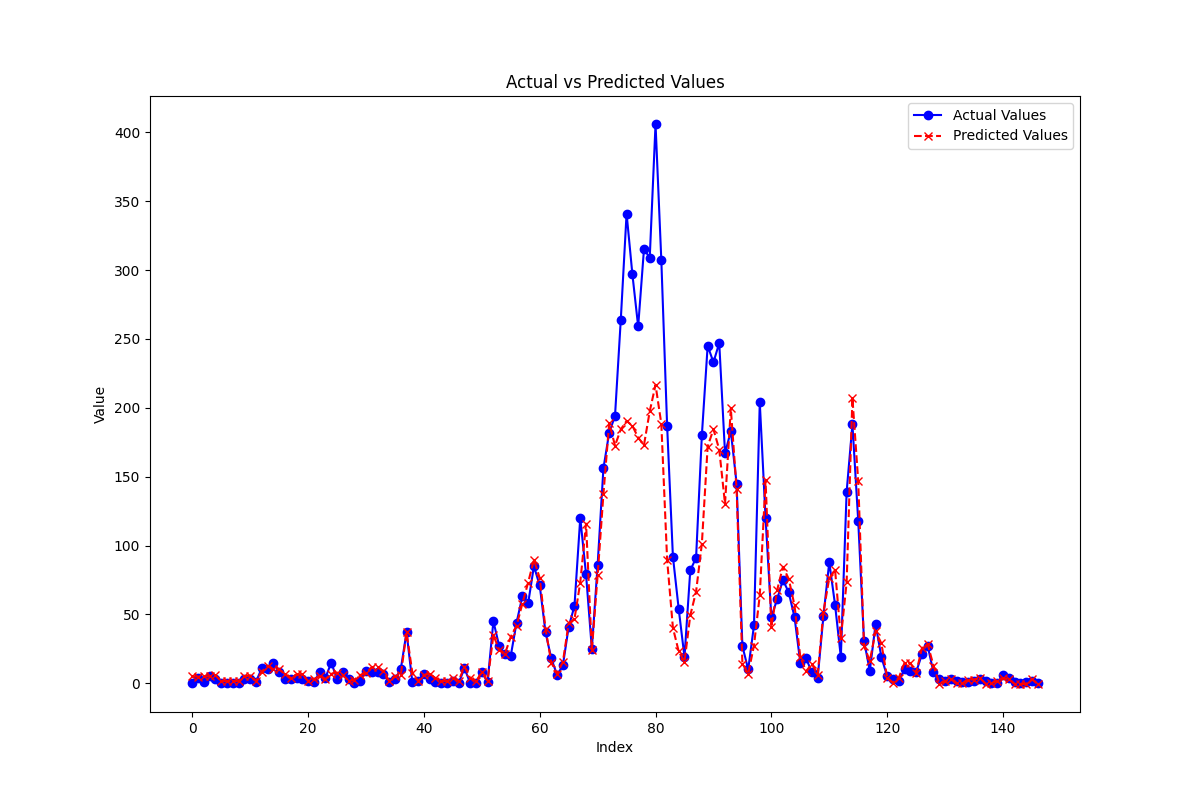
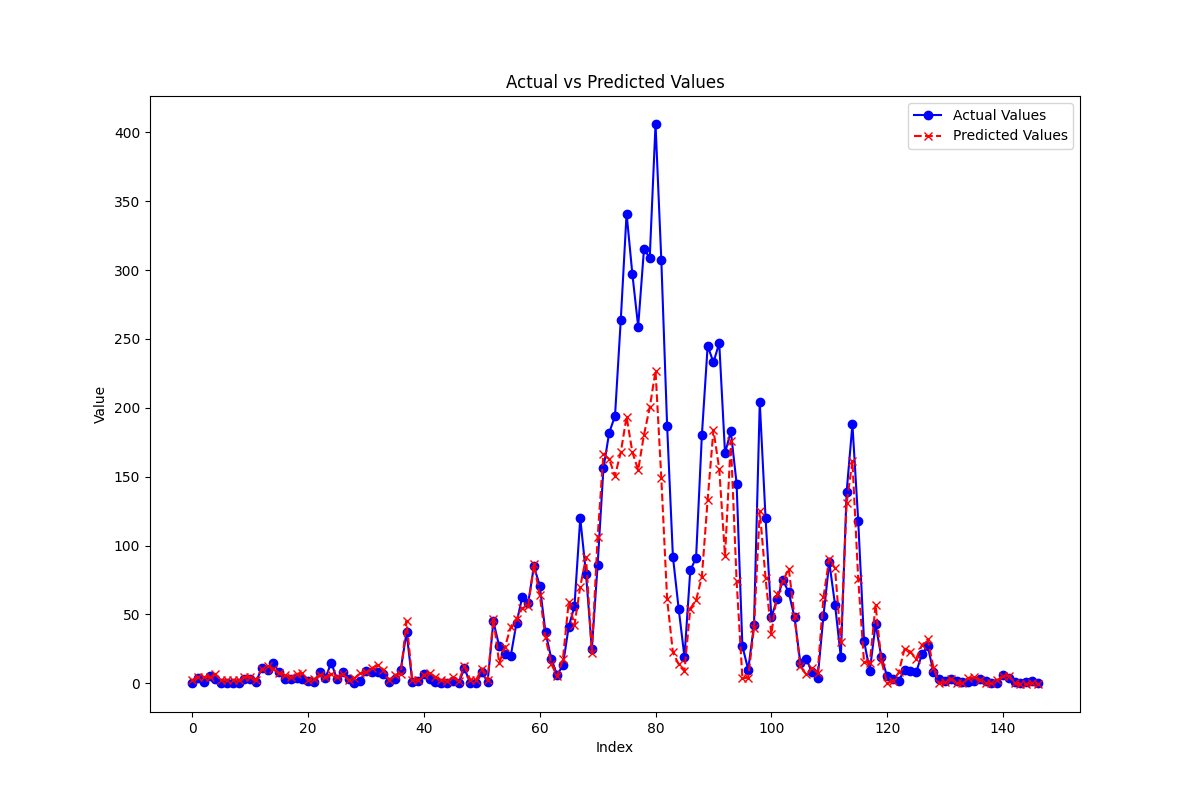
d

diff --git a/Project_01_GradientBooting.py b/Project_01_GradientBooting.py
@@ -44,12 +44,12 @@ process_datetime(test_df)
 # 5. 데이터 전처리
 # 훈련 데이터에서 필요한 열 선택
 X_train = train_df[['Year', 'Month', 'Day', 'Hour', '3최고기온', '4평균기온', '9평균습도(%)',
-                    '10강수량합계(mm)', '18최고-최저 기온차', '19체감온도', '20불쾌지수', '39전일의 이송 인원수']]
+                    '10강수량합계(mm)', '18최고-최저 기온차', '19체감온도', '20불쾌지수']]
 y_train = train_df['2이송 인원']
 
 # 테스트 데이터에서 필요한 열 선택
 X_test = test_df[['Year', 'Month', 'Day', 'Hour', '3최고기온', '4평균기온', '9평균습도(%)',
-                  '10강수량합계(mm)', '18최고-최저 기온차', '19체감온도', '20불쾌지수', '39전일의 이송 인원수']]
+                  '10강수량합계(mm)', '18최고-최저 기온차', '19체감온도', '20불쾌지수']]
 y_test = test_df['2이송 인원']
 
 # 스케일링 (옵션, 선택적으로 적용할 수 있음)
@@ -58,6 +58,7 @@ X_train = scaler.fit_transform(X_train)
 X_test = scaler.transform(X_test)
 
 # 6. 모델 훈련
+# 그래디언트부스팅 회귀(비선형)
 model = GradientBoostingRegressor(n_estimators=100, random_state=42)
 model.fit(X_train, y_train)
 

diff --git a/Project_01_RandomForest.py b/Project_01_RandomForest.py
@@ -44,12 +44,12 @@ process_datetime(test_df)
 # 5. 데이터 전처리
 # 훈련 데이터에서 필요한 열 선택
 X_train = train_df[['Year', 'Month', 'Day', 'Hour', '3최고기온', '4평균기온', '9평균습도(%)',
-                    '10강수량합계(mm)', '18최고-최저 기온차', '19체감온도', '20불쾌지수', '39전일의 이송 인원수']]
+                    '10강수량합계(mm)', '18최고-최저 기온차', '19체감온도', '20불쾌지수']]
 y_train = train_df['2이송 인원']
 
 # 테스트 데이터에서 필요한 열 선택
 X_test = test_df[['Year', 'Month', 'Day', 'Hour', '3최고기온', '4평균기온', '9평균습도(%)',
-                  '10강수량합계(mm)', '18최고-최저 기온차', '19체감온도', '20불쾌지수', '39전일의 이송 인원수']]
+                  '10강수량합계(mm)', '18최고-최저 기온차', '19체감온도', '20불쾌지수']]
 y_test = test_df['2이송 인원']
 
 # 스케일링 (옵션, 선택적으로 적용할 수 있음)
@@ -58,6 +58,7 @@ X_train = scaler.fit_transform(X_train)
 X_test = scaler.transform(X_test)
 
 # 6. 모델 훈련
+# 랜덤포레스트 회귀(비선형)
 model = RandomForestRegressor(n_estimators=100, random_state=42)
 model.fit(X_train, y_train)
 
